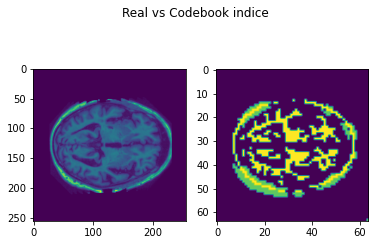
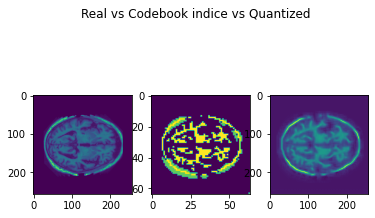
fixes

diff --git a/recognition/s45800023-OASIS_VQVAE/modules.py b/recognition/s45800023-OASIS_VQVAE/modules.py
@@ -462,6 +462,7 @@ class Discriminator(nn.Module):
         super(Discriminator, self).__init__()
         # 64 x 64 - input
         self.conv1 = nn.Conv2d(channels, features, kernel_size=4, stride=2, padding=1)
+        self.batch = nn.BatchNorm2d(features)
         self.leaky1 = nn.LeakyReLU(0.2)
         
         # Block 1 - 32x32 input
@@ -487,6 +488,7 @@ class Discriminator(nn.Module):
     def forward(self, x):
         out = self.conv1(x)
         out = self.leaky1(out)
+        out = self.batch(out)
         out = self.conv2(out)
         out = self.batch1(out)
         out = self.leaky2(out)
@@ -581,7 +583,7 @@ class trainDCGAN():
         self.Discriminator = Discriminator
         self.Generator = Generator
         self.trainData = trainData
-        self.epochs = 1
+        self.epochs = 3
         self.lr = 0.0002
         self.optimizer_g = torch.optim.Adam(self.Generator.parameters(), lr=self.lr, betas=(0.5, 0.999))
         self.optimizer_d = torch.optim.Adam(self.Discriminator.parameters(), lr=self.lr, betas=(0.5, 0.999))
@@ -679,7 +681,7 @@ class generateDCGAN():
         index = torch.zeros(encoded.shape[0], self.VQVAE.vq._num_embeddings, device=x.device)
         print(encoded.shape)
         print(index.shape)
-        index.scatter_(1, encoded, 1)
+        #index.scatter_(1, encoded, 1)
         quantized = torch.matmul(index, self.VQVAE.vq._embedding.weight).view(1, 64, 64, 64)
         return quantized.permute(0, 3, 1, 2).contiguous()
        
@@ -697,18 +699,19 @@ class generateDCGAN():
         fake_indice = fake_indice.to('cpu')
         fake_indice = fake_indice.detach().numpy()
         plt.imshow(fake_indice)
+
+        fake_indice =  fake[0][0]
+        fake_indice = torch.flatten(fake_indice)
+        fake_indice = fake_indice.long()
         
         """
-        generated_code_indice =  fake[0][0]
-        generated_code_indice = torch.flatten(generated_code_indice)
-        generated_code_indice = generated_code_indice.long()
-        generated_output = self.get_quantized(generated_code_indice)
-        generated_output = self.VQVAE.decoder(generated_output)
+        gen = self.get_quantized(fake_indice)
+
+        gen = self.VQVAE.decoder(gen)
         
         # Visualise
-        tt = generated_output[0]
-        tt = tt.to('cpu')
-        tt = tt.detach().numpy()
-        plt.imshow(tt)
-        """
-        
+        output = gen[0]
+        output = output.to('cpu')
+        output = output.detach().numpy()
+        plt.imshow(output)
+        """       

diff --git a/recognition/s45800023-OASIS_VQVAE/datasets.py b/recognition/s45800023-OASIS_VQVAE/datasets.py
@@ -132,7 +132,7 @@ class dataDCGAN(Dataset):
         return embeddings
     
 class DCGANLoader():
-    def __init__(self, img_dir='D:/Jacob Barrie/Documents/keras_png_slices_data', VQVAE):
+    def __init__(self, VQVAE, img_dir='D:/Jacob Barrie/Documents/keras_png_slices_data'):
         data_transforms = [
             transforms.ToTensor()
         ]  
@@ -144,7 +144,7 @@ class DCGANLoader():
         
     # Initialize data loaders 
     def get_loaders(self):
-        train_loader = DataLoader(self.train, batch_size=128, shuffle=True)
+        train_loader = DataLoader(self.train, batch_size=8, shuffle=True)
         test_loader = DataLoader(self.test, batch_size=32, shuffle=False)
         val_loader = DataLoader(self.val, batch_size=32, shuffle=False)
         return train_loader, test_loader, val_loader

diff --git a/recognition/s45800023-OASIS_VQVAE/train.py b/recognition/s45800023-OASIS_VQVAE/train.py
@@ -42,10 +42,10 @@ ax.set_yscale('log')
 ax.set_title('Loss over 5 Epochs.')
 ax.set_xlabel('iteration')
 
-
+VQVAEtrain = torch.load("D:/Jacob Barrie/Documents/COMP3710/models/vqvaeNewBest.txt")
 ### Train DCGAN ###
 # Initialise data
-dataGan = datasets.DCGANLoader(VQVAE)
+dataGan = datasets.DCGANLoader(VQVAEtrain)
 train_gan, test_gan, val_gan = dataGan.get_loaders()
 d_loss = []
 g_loss = []

diff --git a/recognition/s45800023-OASIS_VQVAE/predict.py b/recognition/s45800023-OASIS_VQVAE/predict.py
@@ -34,6 +34,6 @@ VQVAEpredict.reconstruction()
 VQVAEpredict.embedding_slice()
 
 ## DCGAN ##
-Generator = torch.load("D:/Jacob Barrie/Documents/COMP3710/models/generator1.txt")
+Generator = torch.load("D:/Jacob Barrie/Documents/COMP3710/models/generator.txt")
 generate = modules.generateDCGAN(Generator, VQVAE)
 generate.gen()
